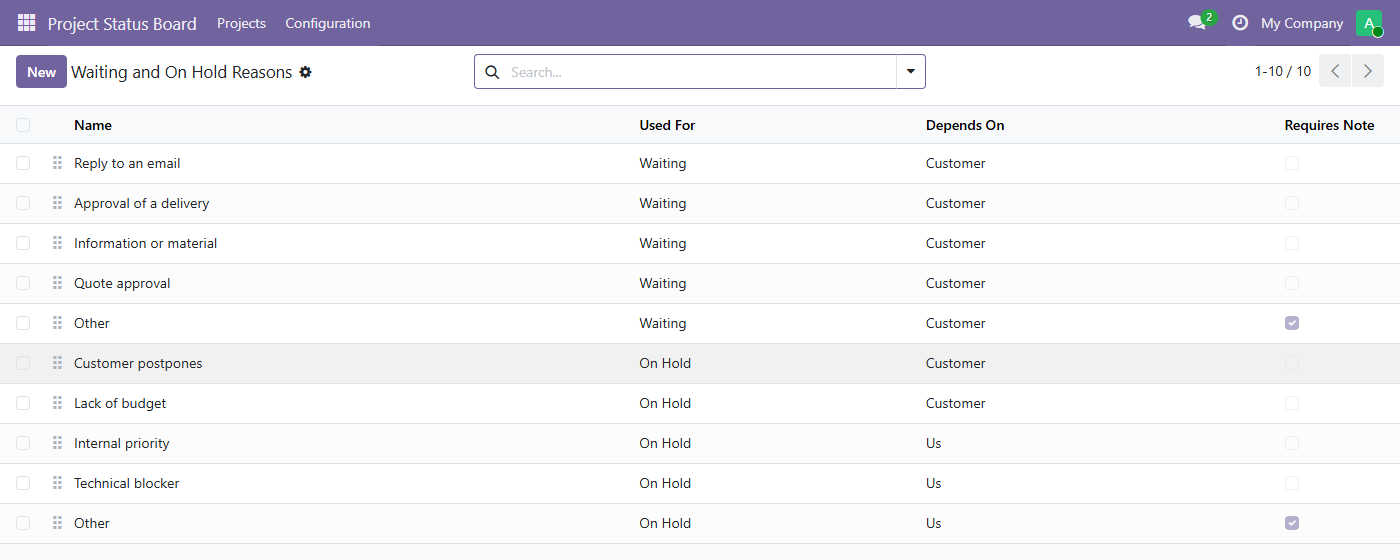
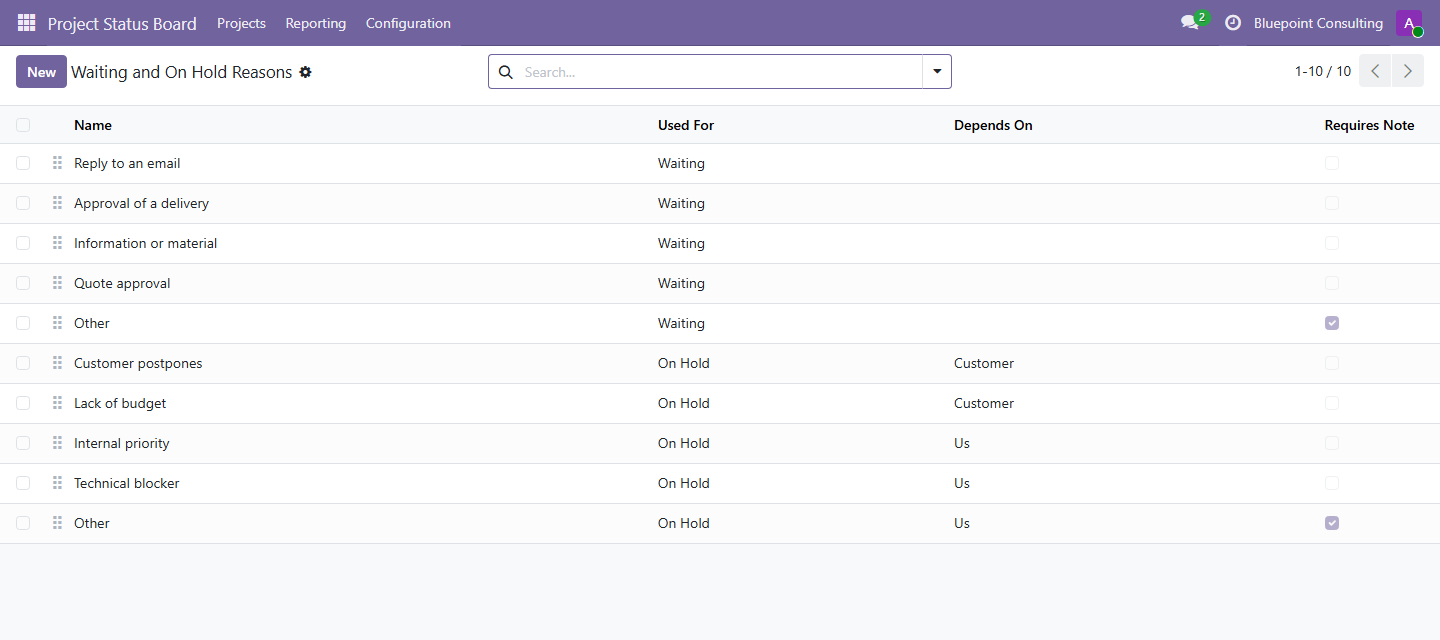
docs: pone al día la ficha de la Store de Project Status Board (19.0)
- Capturas nuevas y reales de 19.0, en inglés y con datos ficticios:
  tablero con los semáforos de horas y plazo, Riesgo de plazo, ficha con
  el cronómetro en marcha, Carga, Capacidad y motivos.
- index.html: margen de horas y de días, informes de carga y capacidad,
  cronómetro, y un paso de instalación para empleados, horario y
  gestiones diarias.
- README: las mismas funciones, la configuración de capacidad y el
  comando de exportación de traducciones de 19.0.
- CHANGELOG: fecha de la 19.0.0.1.0.

diff --git a/cimalor_project_status_board/static/description/index.html b/cimalor_project_status_board/static/description/index.html
@@ -9,17 +9,18 @@
         class="oe_mt32"
         style="font-size: 17px; max-width: 760px; margin: 24px auto 0"
       >
-        Project's stages tell you where a project is, not why it is stuck.
-        <strong>Project Status Board turns them into a board of states</strong>
-        and asks for the missing piece the moment a project stops: what it is
-        waiting for, who it depends on and when to chase it again.
+        Project's stages tell you where a project is, not why it is stuck nor
+        whether it will arrive.
+        <strong>Project Status Board turns them into a board of states</strong>,
+        asks why the moment a project stops, and shows on every card whether its
+        hours and its delivery date will hold.
       </p>
     </div>
     <div class="oe_span12 oe_mt32">
       <img
         class="oe_picture oe_screenshot"
         src="main_screenshot.png"
-        alt="Board of projects grouped by state, with the reason and follow-up date of waiting projects"
+        alt="Board of projects by state, with the waiting reason, the last comment and the hours and days traffic lights on each card"
       />
     </div>
   </div>
@@ -39,19 +40,18 @@
       </p>
     </div>
     <div class="oe_span4">
-      <h3 style="color: #2f5bd3">Who does it depend on?</h3>
+      <h3 style="color: #2f5bd3">Will the hours be enough?</h3>
       <p>
-        A waiting project waits on the customer, so a "waiting for the customer
-        since the 12th" is documented instead of remembered. A project on hold
-        says whether the pause is the customer's, a supplier's or ours.
+        Allocated hours left minus the work still planned on the open tasks. A
+        red clock warns that the project will go over budget before it does.
       </p>
     </div>
     <div class="oe_span4">
-      <h3 style="color: #2f5bd3">When do we chase it?</h3>
+      <h3 style="color: #2f5bd3">Will it arrive on time?</h3>
       <p>
-        Waiting projects carry a follow-up date that turns red once it has
-        passed. Projects on hold carry their restart date in a folded column, so
-        long pauses stay out of the way.
+        Each person works through their tasks by due date at their real
+        capacity. A red calendar says the project will be late, and who it waits
+        for.
       </p>
     </div>
   </div>
@@ -61,26 +61,35 @@
   <div class="oe_row oe_spaced">
     <div class="oe_span6">
       <h2 class="oe_slogan" style="text-align: left">
-        One form for the state and the work
+        Two traffic lights per project
       </h2>
       <ul class="oe_mt32" style="font-size: 16px; line-height: 1.7">
-        <li>The state as a row of buttons, with its reason and date.</li>
         <li>
-          The main tasks as a to-do list, with planned and spent hours. Tick a
-          task to close it; its planned hours are never touched.
+          <strong>Hours margin:</strong> red over budget, amber tight (under 10
+          % of the allocated hours), green with room.
         </li>
-        <li>Closed tasks apart, one click away from being reopened.</li>
         <li>
-          The full history of state changes: who, when, why. Never rewritten.
+          <strong>Days margin:</strong> working days between the forecast end
+          and the delivery date. Red late, amber two days or less, green on
+          time.
         </li>
-        <li>A note in the chatter every time a project starts waiting.</li>
+        <li>
+          The forecast takes every project of the same people into account, with
+          their working schedule, time off, public holidays and a daily admin
+          time.
+        </li>
+        <li>
+          Grey, never green, when there is not enough data to tell: no allocated
+          hours, no delivery date, nobody's schedule.
+        </li>
+        <li><em>Reporting › Date Risk</em> lists the projects at risk.</li>
       </ul>
     </div>
     <div class="oe_span6">
       <img
         class="oe_picture oe_screenshot"
-        src="screenshot_project_form.png"
-        alt="Project form with the state buttons, the waiting reason and the to-do list of tasks"
+        src="screenshot_date_risk.png"
+        alt="Date Risk report with the delivery date, forecast end, days margin and hours health of each project"
       />
     </div>
   </div>
@@ -91,10 +100,63 @@
     <div class="oe_span6">
       <img
         class="oe_picture oe_screenshot"
-        src="screenshot_reasons.png"
-        alt="Editable list of waiting and on hold reasons"
+        src="screenshot_project_form.png"
+        alt="Project form with the hours and days margins, the state buttons and the to-do list of tasks with a running timer"
       />
     </div>
+    <div class="oe_span6">
+      <h2 class="oe_slogan" style="text-align: left">
+        One form for the state and the work
+      </h2>
+      <ul class="oe_mt32" style="font-size: 16px; line-height: 1.7">
+        <li>The state as a row of buttons, with its reason and date.</li>
+        <li>
+          The main tasks as a to-do list with planned and spent hours. Tick a
+          task to close it; its planned hours are never touched.
+        </li>
+        <li>
+          A timer on every task: press play, and stop to log a standard
+          timesheet line with a required comment. The latest comment shows on
+          the card.
+        </li>
+        <li>
+          The full history of state changes: who, when, why. Never rewritten.
+        </li>
+      </ul>
+    </div>
+  </div>
+</section>
+
+<section class="oe_container">
+  <div class="oe_row oe_spaced">
+    <div class="oe_span12" style="text-align: center">
+      <h2 class="oe_slogan">Workload and capacity, per person</h2>
+      <p style="font-size: 16px; max-width: 760px; margin: 16px auto 0">
+        <em>Workload</em> splits the pending hours by person, project state and
+        due date. <em>Capacity</em> shows how many weeks of work each person has
+        and the day their queue ends, with on-hold work apart. Each person sees
+        their own figures; Project administrators see everybody's.
+      </p>
+    </div>
+    <div class="oe_span6 oe_mt32">
+      <img
+        class="oe_picture oe_screenshot"
+        src="screenshot_workload.png"
+        alt="Workload pivot with the pending hours of each person by project state"
+      />
+    </div>
+    <div class="oe_span6 oe_mt32">
+      <img
+        class="oe_picture oe_screenshot"
+        src="screenshot_capacity.png"
+        alt="Capacity list with daily and weekly capacity, pending hours, weeks of work and queue end of each person"
+      />
+    </div>
+  </div>
+</section>
+
+<section class="oe_container oe_dark">
+  <div class="oe_row oe_spaced">
     <div class="oe_span6">
       <h2 class="oe_slogan" style="text-align: left">
         Your reasons, your words
@@ -106,6 +168,13 @@
         such as <em>Other</em> require a note.
       </p>
     </div>
+    <div class="oe_span6">
+      <img
+        class="oe_picture oe_screenshot"
+        src="screenshot_reasons.png"
+        alt="Editable list of waiting and on hold reasons"
+      />
+    </div>
   </div>
 </section>
 
@@ -114,9 +183,11 @@
     <div class="oe_span12" style="text-align: center">
       <h2 class="oe_slogan">Built on Project, not next to it</h2>
       <p style="font-size: 16px; max-width: 760px; margin: 16px auto 0">
-        The columns are Project's own stages and the to-do list is Project's own
-        tasks. Nothing is copied into a parallel model, and the Project app
-        keeps working exactly as before. No dependency on Enterprise modules.
+        The columns are Project's own stages, the to-do list is Project's own
+        tasks and the timer logs standard timesheet lines. Nothing is copied
+        into a parallel model, and the Project app keeps working exactly as
+        before. No dependency on Enterprise modules, and no data is sent outside
+        your database.
       </p>
     </div>
   </div>
@@ -125,7 +196,7 @@
 <section class="oe_container oe_dark">
   <div class="oe_row oe_spaced">
     <div class="oe_span12" style="text-align: center">
-      <h2 class="oe_slogan">Up and running in four steps</h2>
+      <h2 class="oe_slogan">Up and running in five steps</h2>
     </div>
     <div class="oe_span12">
       <ol
@@ -145,8 +216,12 @@
           <em>Waiting</em> and <em>On Hold</em>.
         </li>
         <li>
-          Review the reasons under
-          <em>Project Status Board › Configuration › Reasons</em>.
+          Link each user to an employee with a working schedule, and adjust the
+          <em>Daily Admin Time</em> next to it (1 hour by default).
+        </li>
+        <li>
+          Give your projects allocated hours and a delivery date, and your tasks
+          planned hours.
         </li>
         <li>Open <em>Projects</em> and drag each project to its real state.</li>
       </ol>

diff --git a/cimalor_project_status_board/__manifest__.py b/cimalor_project_status_board/__manifest__.py
@@ -9,7 +9,10 @@
     "depends": ["project", "hr_timesheet"],
     "images": [
         "static/description/main_screenshot.png",
+        "static/description/screenshot_date_risk.png",
         "static/description/screenshot_project_form.png",
+        "static/description/screenshot_workload.png",
+        "static/description/screenshot_capacity.png",
         "static/description/screenshot_reasons.png",
     ],
     "data": [

diff --git a/cimalor_project_status_board/README.md b/cimalor_project_status_board/README.md
@@ -30,6 +30,18 @@ it is waiting for, who it depends on and when to chase it again.
   The chatter gets a note each time a project starts waiting or goes on hold.
 - **Configurable reasons**, ten to start with; On Hold ones propose who the project depends
   on.
+- **Hours margin on every card and form:** allocated hours left minus the pending work of
+  the open main tasks (planned minus spent, never below zero). Red over budget, amber tight
+  (under 10 % of the allocated hours), green with room; grey without allocated hours.
+- **Days margin on every card and form:** each person works through their tasks by due
+  date at their daily capacity; the project's forecast end is when its last open task ends,
+  and the margin is the working days to the delivery date. Red late (with who it is late
+  because of), amber two days or less, green on time; grey without delivery date or when
+  somebody has no working schedule. Board filters _Over Budget_, _Hours at Risk_, _Late_
+  and _Date at Risk_.
+- **Reporting:** _Workload_ (pending hours by person, project stage and due date),
+  _Capacity_ (daily and weekly capacity, weeks of work and queue end per person),
+  _Date Risk_ (projects at risk) and _Latest Changes_ (every state change).
 - Uses Project's own stages and tasks: no parallel data model, and the Project app keeps
   working exactly as before.
 
@@ -61,6 +73,12 @@ Hold stage next to the one that stayed: move the projects and delete the old one
 - **Stages:** Project Status Board › Configuration › Stages, which is Project's own stage
   list. Set the **State Type** of each stage; a stage without a type is shown but gets no
   special behaviour. Several stages may share a type.
+- **Capacity:** each person needs a user linked to an employee with a working schedule. The
+  **Daily Admin Time** next to the schedule, on the employee's _Payroll_ page (1
+  hour by default), is subtracted from each working day. Approved time off and public
+  holidays are taken into account through Odoo's resource leaves.
+- **Margins:** give projects their allocated hours and delivery date, and tasks their
+  planned hours. Tasks without planned hours count zero.
 
 ## Usage
 
@@ -95,8 +113,13 @@ Project **administrators** change any project and also manage the reasons.
 
 - Models: `cimalor.project.state.log` (history, read and create only),
   `cimalor.project.stop.reason`, `cimalor.project.timer` (running timers, each user sees
-  only their own) and the `cimalor.project.timer.stop` dialog; extensions of
-  `project.project`, `project.project.stage` and `project.task`.
+  only their own) and the `cimalor.project.timer.stop` dialog; the read-only reports
+  `cimalor.project.workload.report` (a database view) and `cimalor.project.capacity.report`;
+  `cimalor.project.queue`, the per-person work queue behind the capacity and the days
+  margin; extensions of `project.project`, `project.project.stage`, `project.task` and
+  `hr.employee`.
+- The days margin is computed when read, never stored: it depends on the other projects of
+  the same people, which `@api.depends` cannot follow.
 - The live counter is the module's only JavaScript: the `cimalor_timer` field widget, which
   shows "now minus start" every second, so it stays right after the computer sleeps.
 - The state type lives on the stage (`cimalor_state_type`); every rule reads it, never the

diff --git a/CHANGELOG.md b/CHANGELOG.md
@@ -108,7 +108,7 @@ Odoo version. The same functional version number means the same features in both
 
 ## cimalor_project_status_board — Project Status Board
 
-### [19.0.0.1.0] - Unreleased
+### [19.0.0.1.0] - 2026-11-12
 
 #### Added
 
